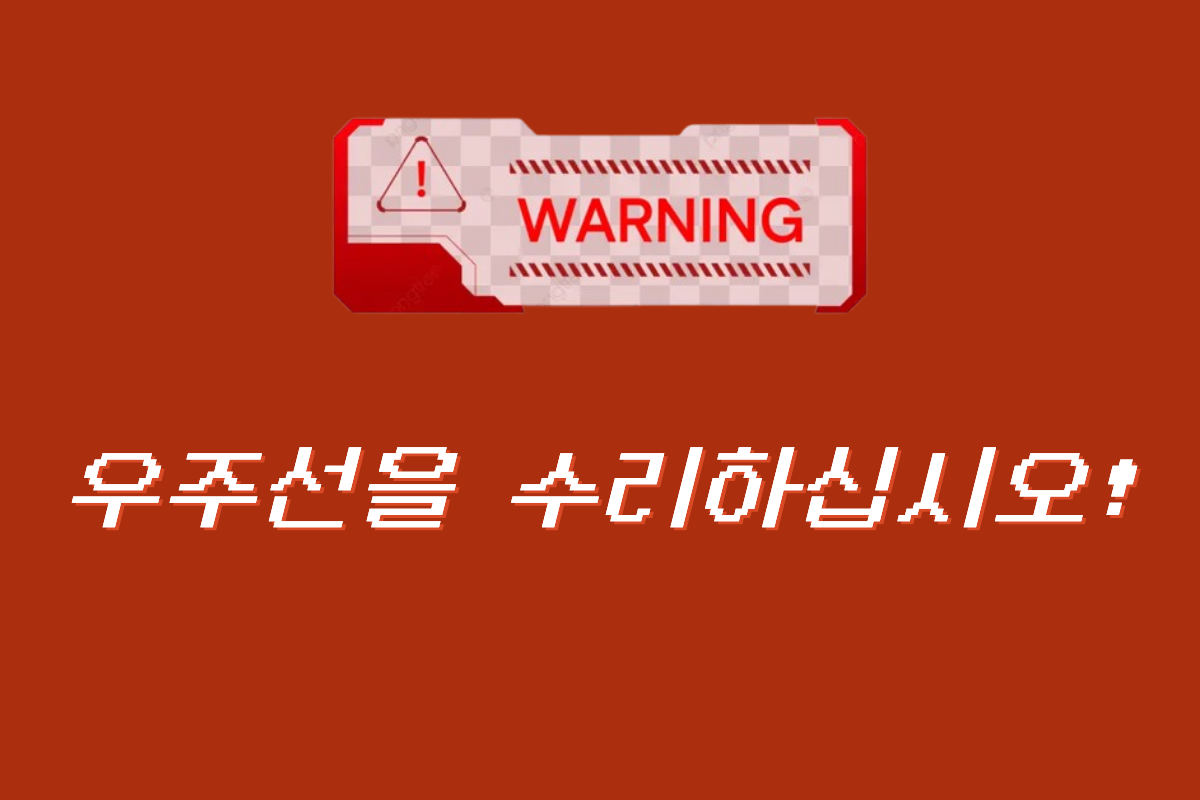
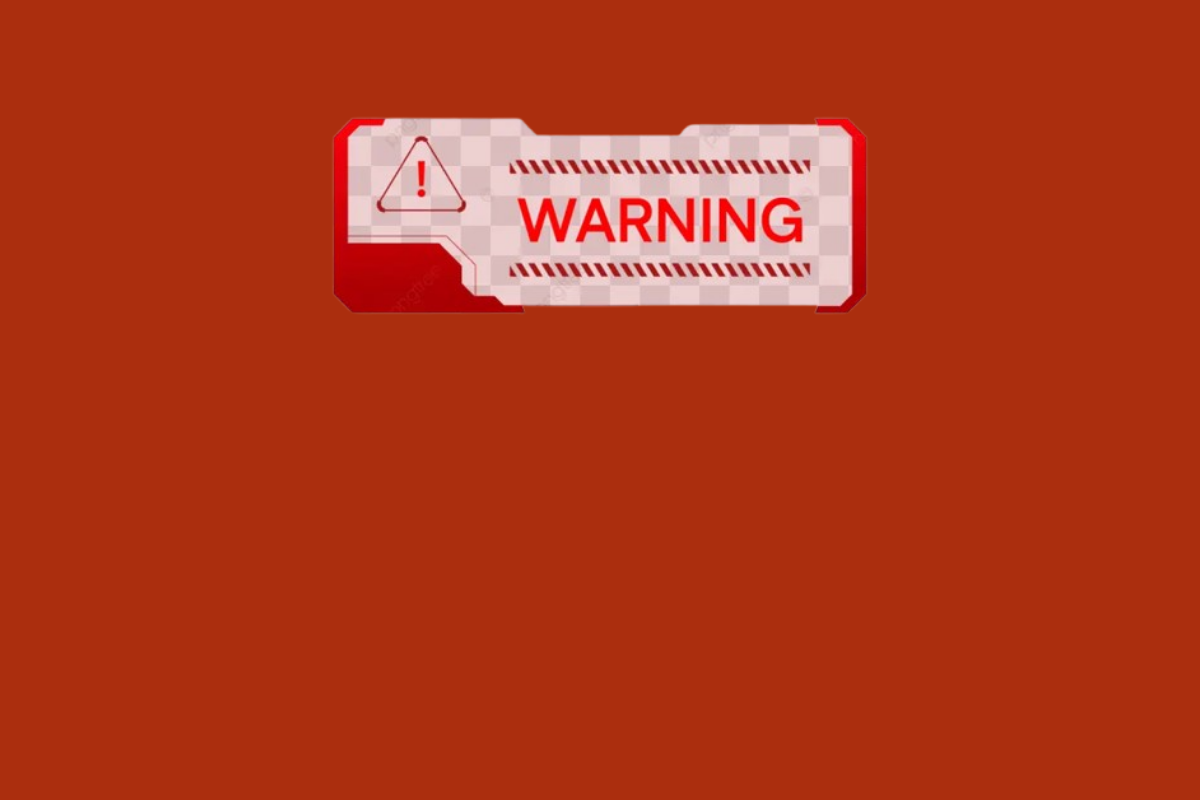
퍼즐 합침

Changed region(s): [[0.4317, 0.5625, 0.9558, 0.6875], [0.0617, 0.5312, 0.4008, 0.6875]]

diff --git a/stage4/stage4.py b/stage4/stage4.py
@@ -4,6 +4,7 @@ import random
 import math
 import ui
 
+from puzzle import puzzle_main
 pygame.init()
 
 screen_width=1200
@@ -167,24 +168,19 @@ while running:
 
     current_ticks = pygame.time.get_ticks() # 현재 실제 시간
     real_elapsed_time = (current_ticks - start_ticks) / 1000.0
-    
-
-    # 진짜 게임 시간을 기준으로 결함 이벤트 체크
-    if 15 <= real_elapsed_time < 20: 
-        is_defect_event = True
-        if not was_defect_paused: # 방금 멈추기 시작했다면
-            pause_start_ticks = current_ticks # 멈춘 순간의 실제 시간 기록
-            was_defect_paused = True
-    else: 
-        if was_defect_paused: #방금 멈춤이 끝났다면
-            total_paused_ms += (current_ticks - pause_start_ticks) #멈춰있던 시간을 총합에 더함
-            spaceship_to_x=0
-            spaceship_to_y=0
-        is_defect_event = False
-        was_defect_paused = False
-    # 진짜 게임 시간 = (현재시간 - 시작시간 - 총 멈췄던 시간)
     game_elapsed_ms = current_ticks - start_ticks - total_paused_ms
     game_elapsed_time = game_elapsed_ms / 1000.0 # 초 단위
+
+   
+    if 10 <= game_elapsed_time < 10.1 and not is_defect_event:  #결함 발생
+        is_defect_event = True
+        spaceship_to_x = 0
+        spaceship_to_y = 0
+        if not was_defect_paused:
+            pause_start_ticks = current_ticks
+            was_defect_paused = True
+
+   
 
     remaining_seconds = max(0, TOTAL_GAME_TIME - game_elapsed_time)  #남은 시간
     minutes = int(remaining_seconds // 60)
@@ -202,7 +198,25 @@ while running:
     for event in pygame.event.get():
         if event.type==pygame.QUIT:
             running=False 
-        if not is_defect_event: #결함 없을 때 키보드 먹도록..(운석 충돌 때문에 일단 이렇게 둠)
+        if is_defect_event:
+            if event.type == pygame.KEYDOWN:
+                if event.key == pygame.K_TAB: 
+                    puzzle_start_tick = pygame.time.get_ticks()
+                    result = puzzle_main.f_puzzle(screen) 
+                    if result!=1:
+                       running=False
+
+                    # 정지 시간 보정
+                    puzzle_end_tick = pygame.time.get_ticks()
+                    total_paused_ms += (puzzle_end_tick - pause_start_ticks)
+                    game_elapsed_ms = current_ticks - start_ticks - total_paused_ms
+                    game_elapsed_time = game_elapsed_ms / 1000.0 # 초 단위
+                    is_defect_event = False
+                    was_defect_paused = False
+
+            # 1초 대기 후 게임 다시
+                    pygame.time.delay(1000)
+        else: #결함 없을 때 키보드 먹도록..(운석 충돌 때문에 일단 이렇게 둠)
             if event.type ==pygame.KEYDOWN:
                 if keyborad_rotation==0:
                     if event.key ==pygame.K_LEFT: spaceship_to_x = -spaceship_speed
@@ -241,6 +255,19 @@ while running:
 
 
     if not is_defect_event: #이것도 결함 아닐 때
+        if remaining_seconds>=84:
+            navigation_movement.update(1)
+        elif remaining_seconds>=68:
+            navigation_movement.update(2)
+        elif remaining_seconds>=52:
+                navigation_movement.update(3)
+        elif remaining_seconds>=36:
+            navigation_movement.update(4)
+        elif remaining_seconds>=20:
+                navigation_movement.update(5)
+        elif remaining_seconds>=0:
+                navigation_movement.update(6)
+        navigation_movement.draw(screen)    #왜 근데 여기에 넣는데 안그려지는 거지?
         #무적 시간 끝났나
         if is_invincible and game_elapsed_time - invincible_start_time > 2: # 2초간 무적
             is_invincible = False
@@ -269,6 +296,7 @@ while running:
                 shield_start_time = game_elapsed_time # 쉴드 시작 시간 기록
                 alien_x_pos = -2000 #외계인 날려버리기..
                 alien_y_pos = -2000
+        navigation_movement.draw(screen)
         if game_elapsed_time >= 40 and game_elapsed_time<=48 and not blackhole_appeared:   #블랙홀 생성
             blackhole_appeared = True 
             # 안전하게 화면 가장자리 근처 랜덤 위치에 생성 (플레이어에 바로 닿지 않게)
@@ -420,7 +448,7 @@ while running:
 
                 pygame.time.delay(1500) 
                 running = False
-                
+
         # 기본 성공 
         if remaining_seconds <= 0 and running:
             
@@ -555,18 +583,6 @@ while running:
     fuel_Indicator.draw(screen)
 
     screen.blit(navigation_screen,(950,550))
-    if game_elapsed_time<=16:
-        navigation_movement.update(1)
-    elif game_elapsed_time<=32:
-        navigation_movement.update(2)
-    elif game_elapsed_time<=48:
-        navigation_movement.update(3)
-    elif game_elapsed_time<=64:
-        navigation_movement.update(4)
-    elif game_elapsed_time<=80:
-        navigation_movement.update(5)
-    elif game_elapsed_time<=100:
-        navigation_movement.update(6)
     navigation_movement.draw(screen)
 
     if left_life==4:
@@ -603,17 +619,22 @@ while running:
         bubble_rect = bubble.get_rect(center = (spaceship_x_pos + spaceship_width/2, spaceship_y_pos + spaceship_height/2))
         screen.blit(bubble, bubble_rect)
 
-
-
+    defect_font = pygame.font.Font(os.path.join(font_path, "DungGeunMo.ttf"), 60)
+    defect_text_surface = defect_font.render("TAB 키를 눌러 우주선을 수리하십시오!", True, (255, 255, 255))
+    text_rect = defect_text_surface.get_rect(center=(screen_width / 2, screen_height/2+20))
     
-    if is_defect_event: #결함이벤트 발생하면
-        flicker_value = (pygame.time.get_ticks() // 200) % 2    #짝수 초일 때
+    if is_defect_event: 
+        defect_str_switch=True
+
+        flicker_value = (pygame.time.get_ticks() // 200) % 2 
         if flicker_value == 0:
             screen.blit(warning_img1, (0,0))
-        else:   #홀수 초일 때
+        else: 
             screen.blit(warning_img2, (0,0))
+        
+        screen.blit(defect_text_surface,text_rect)
+  
     
-
     pygame.display.update()
 
 pygame.quit()

diff --git a/stage4/puzzle/puzzle_main.py b/stage4/puzzle/puzzle_main.py
@@ -1,0 +1,104 @@
+import pygame
+import os
+from puzzle.images import *
+
+
+pygame.init()
+
+def f_puzzle(window):
+    total_time = 60 * 1000 
+    start_ticks = pygame.time.get_ticks() 
+    font_path = os.path.join(os.path.dirname(__file__), "..", "font", "DungGeunMo.ttf")
+    font = pygame.font.Font(font_path, 50)
+    remaining_time_sec = 60
+    play = True
+
+    ans = [[(425, 240), (445, 255)], [(340,255), (365, 280)], [(185, 375), (195, 390)], [(325,430), (365, 445)], [(390, 460), (415, 475)], [(135, 540), (245, 565)]]
+    delay = 0
+    res =[0, 0, 0, 0, 0, 0]
+    while play:
+        mouseX, mouseY = pygame.mouse.get_pos()
+        clicked = False
+
+        if (remaining_time_sec <= 0):
+            play = False
+            return -1                                   # fail
+
+        for event in pygame.event.get():        
+            if event.type == pygame.QUIT:
+                play = False
+                return 0
+            if event.type == pygame.MOUSEBUTTONDOWN:
+                clickedX, clickedY = mouseX, mouseY
+                clicked = True
+        flag = 1
+        if (clicked):
+            for i in range(len(ans)):
+                if (ans[i][0][0] <= clickedX <= ans[i][1][0]) and (ans[i][0][1] <= clickedY <= ans[i][1][1]):
+                    res[i] = 1
+                    flag = 1
+                    break
+                elif (ans[i][0][0] <= clickedX - 500 <= ans[i][1][0]) and (ans[i][0][1] <= clickedY <= ans[i][1][1]):
+                    res[i] = 1
+                    flag = 1
+                    break
+                elif (clickedX > 100 and clickedX < 590 and clickedY >= 150 and clickedY <= 550):
+                    flag = 0
+                elif (clickedX > 600 and clickedX < 1090 and clickedY >= 150 and clickedY <= 550):
+                    flag = 0
+            if (flag == 0):
+                delay += 5
+
+        window.blit(puzzle1, (100,150))
+        window.blit(puzzle2, (600,150))
+        window.blit(outline3, (90,90))
+
+        for i in range(len(res)):
+            if (res[i] == 1):
+                window.blit(checks[i], (100,150))
+                window.blit(checks[i], (600,150))
+
+        current_ticks = pygame.time.get_ticks()                 # 현재 틱 수
+        elapsed_time = current_ticks - start_ticks               # 경과 시간 계산
+
+        remaining_time_ms = total_time - elapsed_time      # 남은 시간 계산
+
+        remaining_time_sec = remaining_time_ms // 1000 - delay     # 남은 시간을 초 단위로 변환
+    
+
+        timer_text = font.render(f"{remaining_time_sec}", False, (0, 0, 0))
+        window.blit(timer_text, (110, 100))
+        
+        default_text = font.render(f"고장난 곳을 찾아주세요!", False, (0,0,0))
+        window.blit(default_text, (300, 110))
+
+        for i in range(sum(res)):
+            window.blit(found, (1050 - i * 40, 655))
+        for i in range(6 - sum(res)):
+            window.blit(notFound, (1050 - i * 40 - 40 * sum(res), 655))
+        if (sum(res) == 6):
+            play = False
+        
+        pygame.display.update()
+    
+    font = pygame.font.Font(font_path, 150)
+
+    text = font.render(f"SUCCESS!!", False, (230, 255, 0))
+    shadow = font.render(f"SUCCESS!!", False, (0, 0, 0))
+    
+    for i in range(3):
+        window.blit(shadow, (305, 305))
+        window.blit(text, (300, 300))
+        pygame.display.update()
+        pygame.time.delay(800)
+
+    return 1                                          # success
+
+if __name__ == "__main__":
+    # 화면 크기
+    window_width = 1200
+    window_height = 800         
+    window = pygame.display.set_mode((window_width,window_height))
+    pygame.display.set_caption("Kkanddappia!")
+
+    f_puzzle(window)

diff --git a/stage4/puzzle/images.py b/stage4/puzzle/images.py
@@ -1,0 +1,26 @@
+import pygame
+import os
+
+CURRENT_DIR = os.path.dirname(__file__)
+
+def load_image(name):
+    return pygame.image.load(os.path.join(CURRENT_DIR, "assets", name))
+
+puzzle1 = load_image("puzzle1.png")
+puzzle2 = load_image("puzzle2.png")
+
+outline1 = load_image("outline1.png")
+outline2 = load_image("outline2.png")
+outline3 = load_image("outline3.png")
+
+check1 = load_image("check1.png")
+check2 = load_image("check2.png")
+check3 = load_image("check3.png")
+check4 = load_image("check4.png")
+check5 = load_image("check5.png")
+check6 = load_image("check6.png")
+
+checks = [check1, check2, check3, check4, check5, check6]
+
+found = load_image("found.png")
+notFound = load_image("notFound.png")
